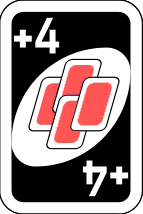
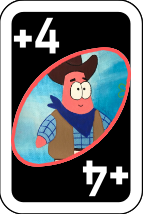
new wild cards added

diff --git a/commands/log.js b/commands/log.js
@@ -30,11 +30,11 @@ module.exports = {
 					} minutes**\n`,
 				``
 			) +
-			`\n\n**Total Time: ${
+			`\n**Total Time: ${
 				Math.floor(
 					(log[log.length - 1].end - log[0].start) / 1000 / 60
 				) % 60
-			}`;
+			}**`;
 		return await channel.send(log_text);
 	},
 };
